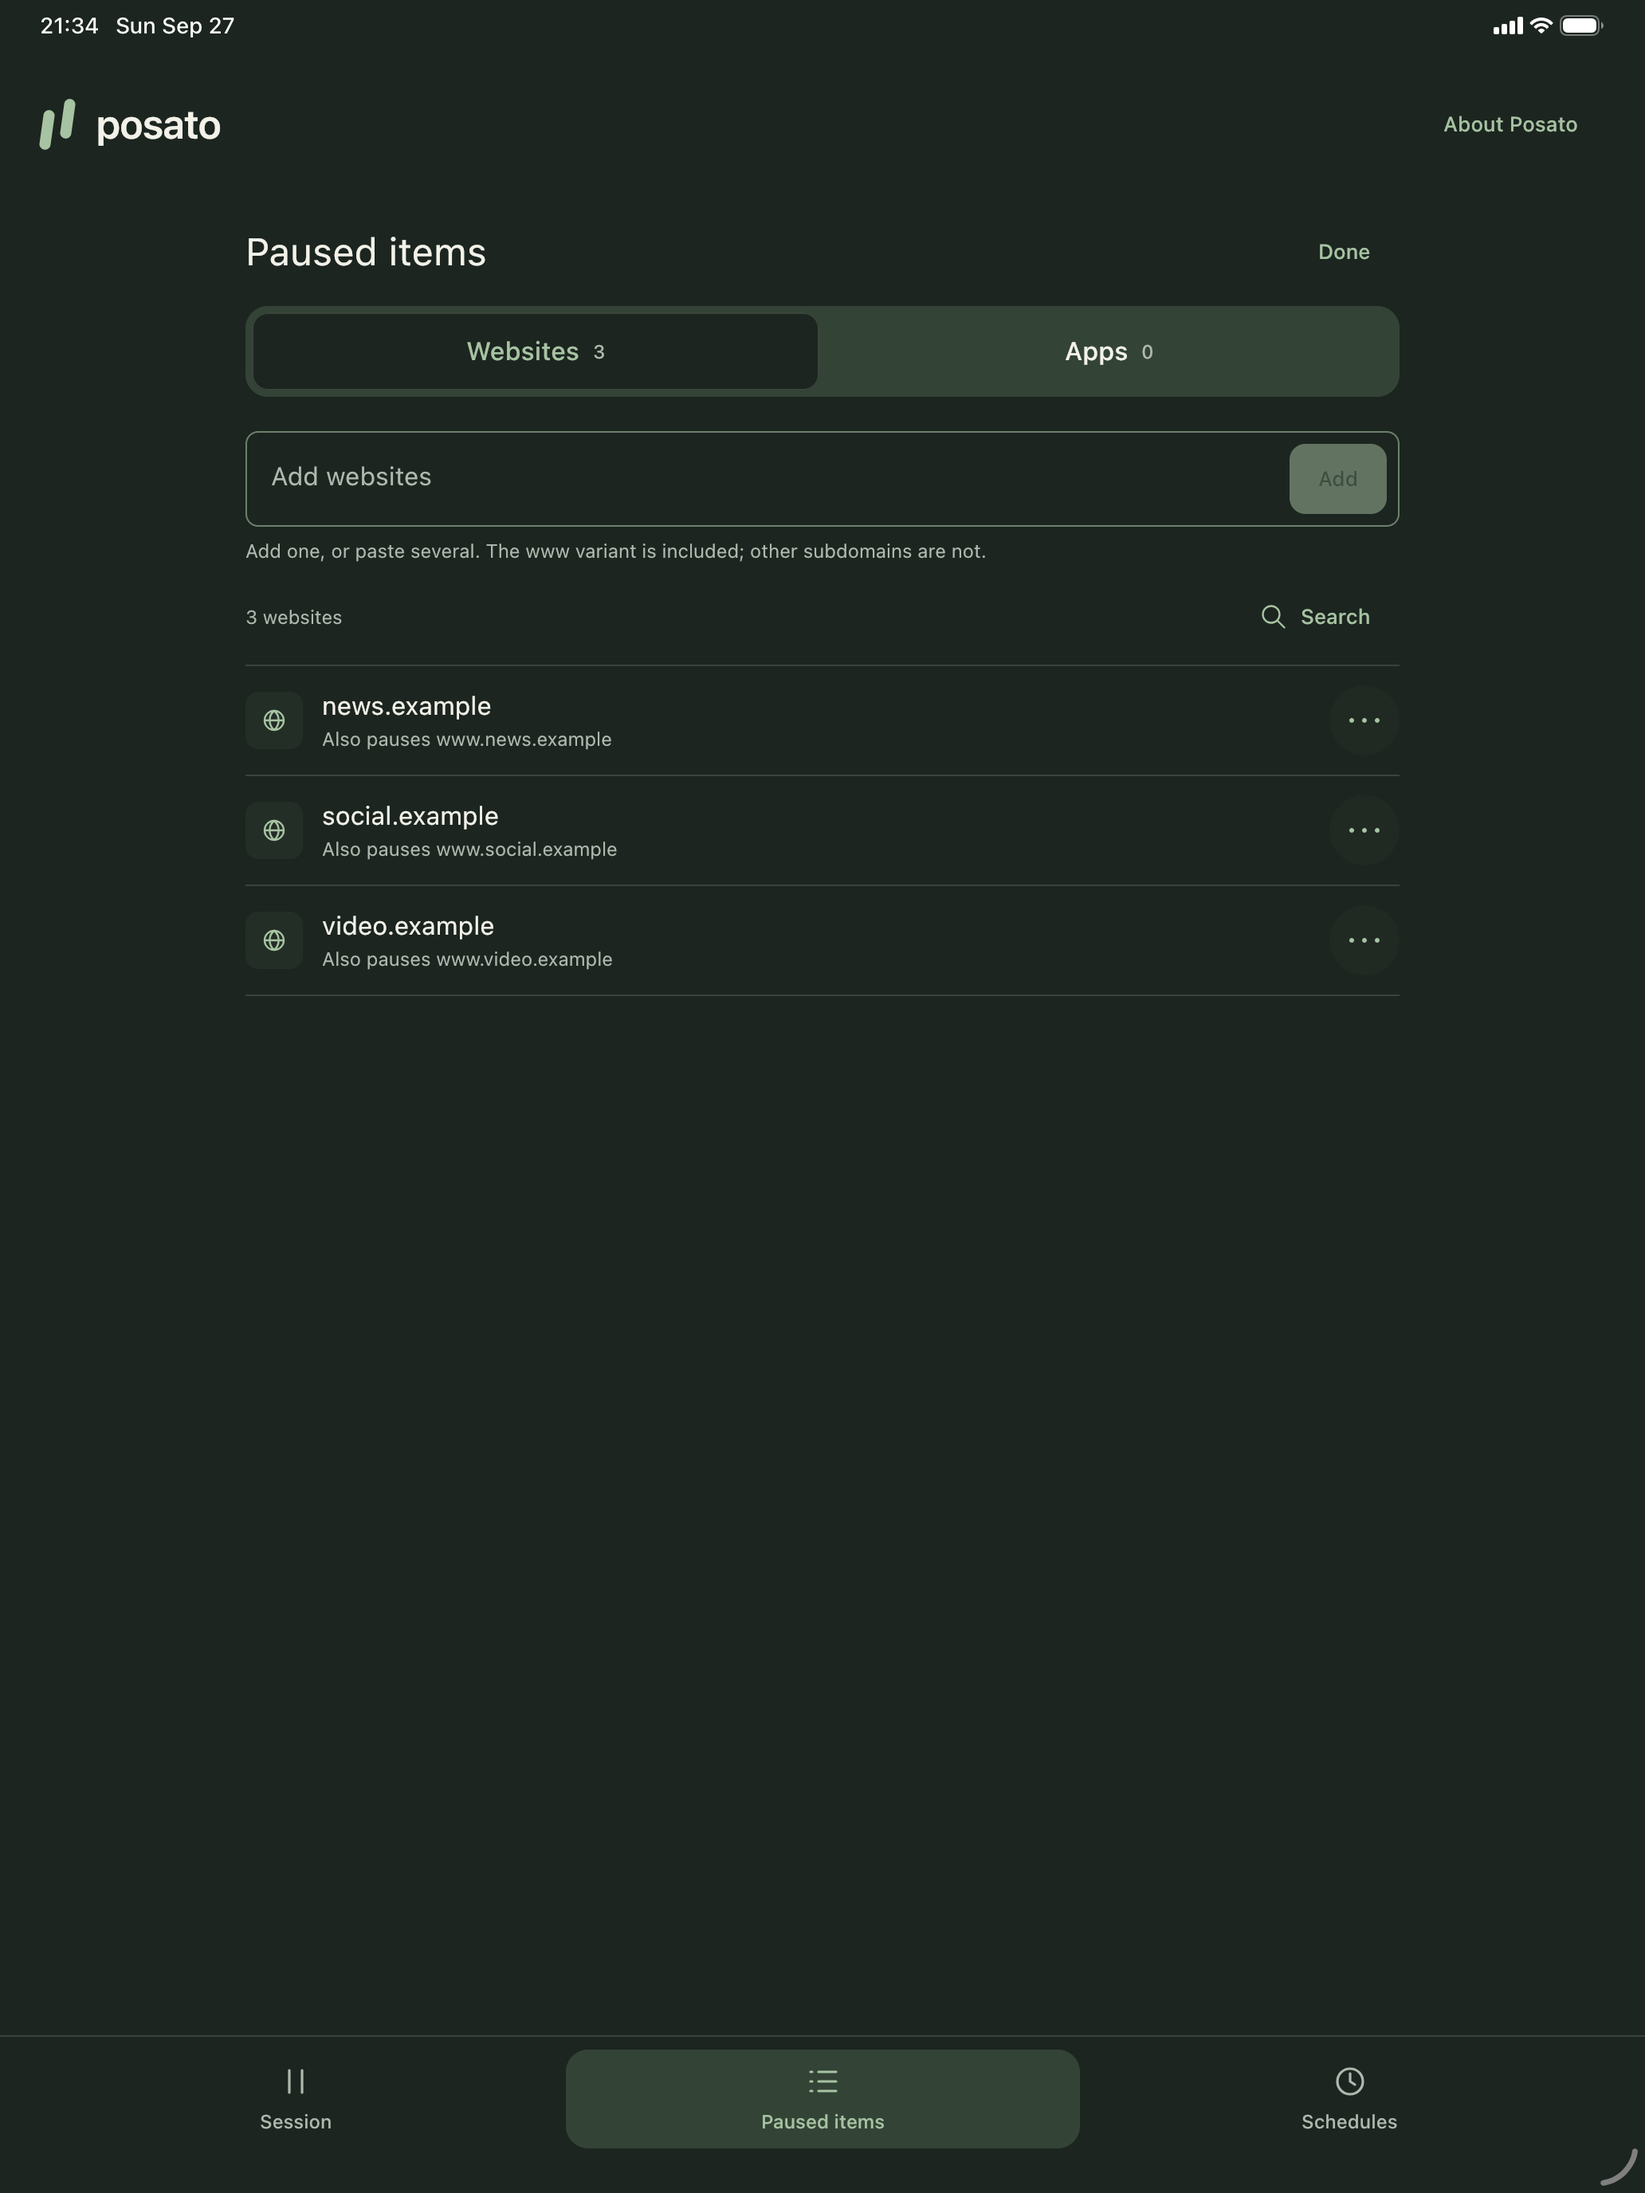
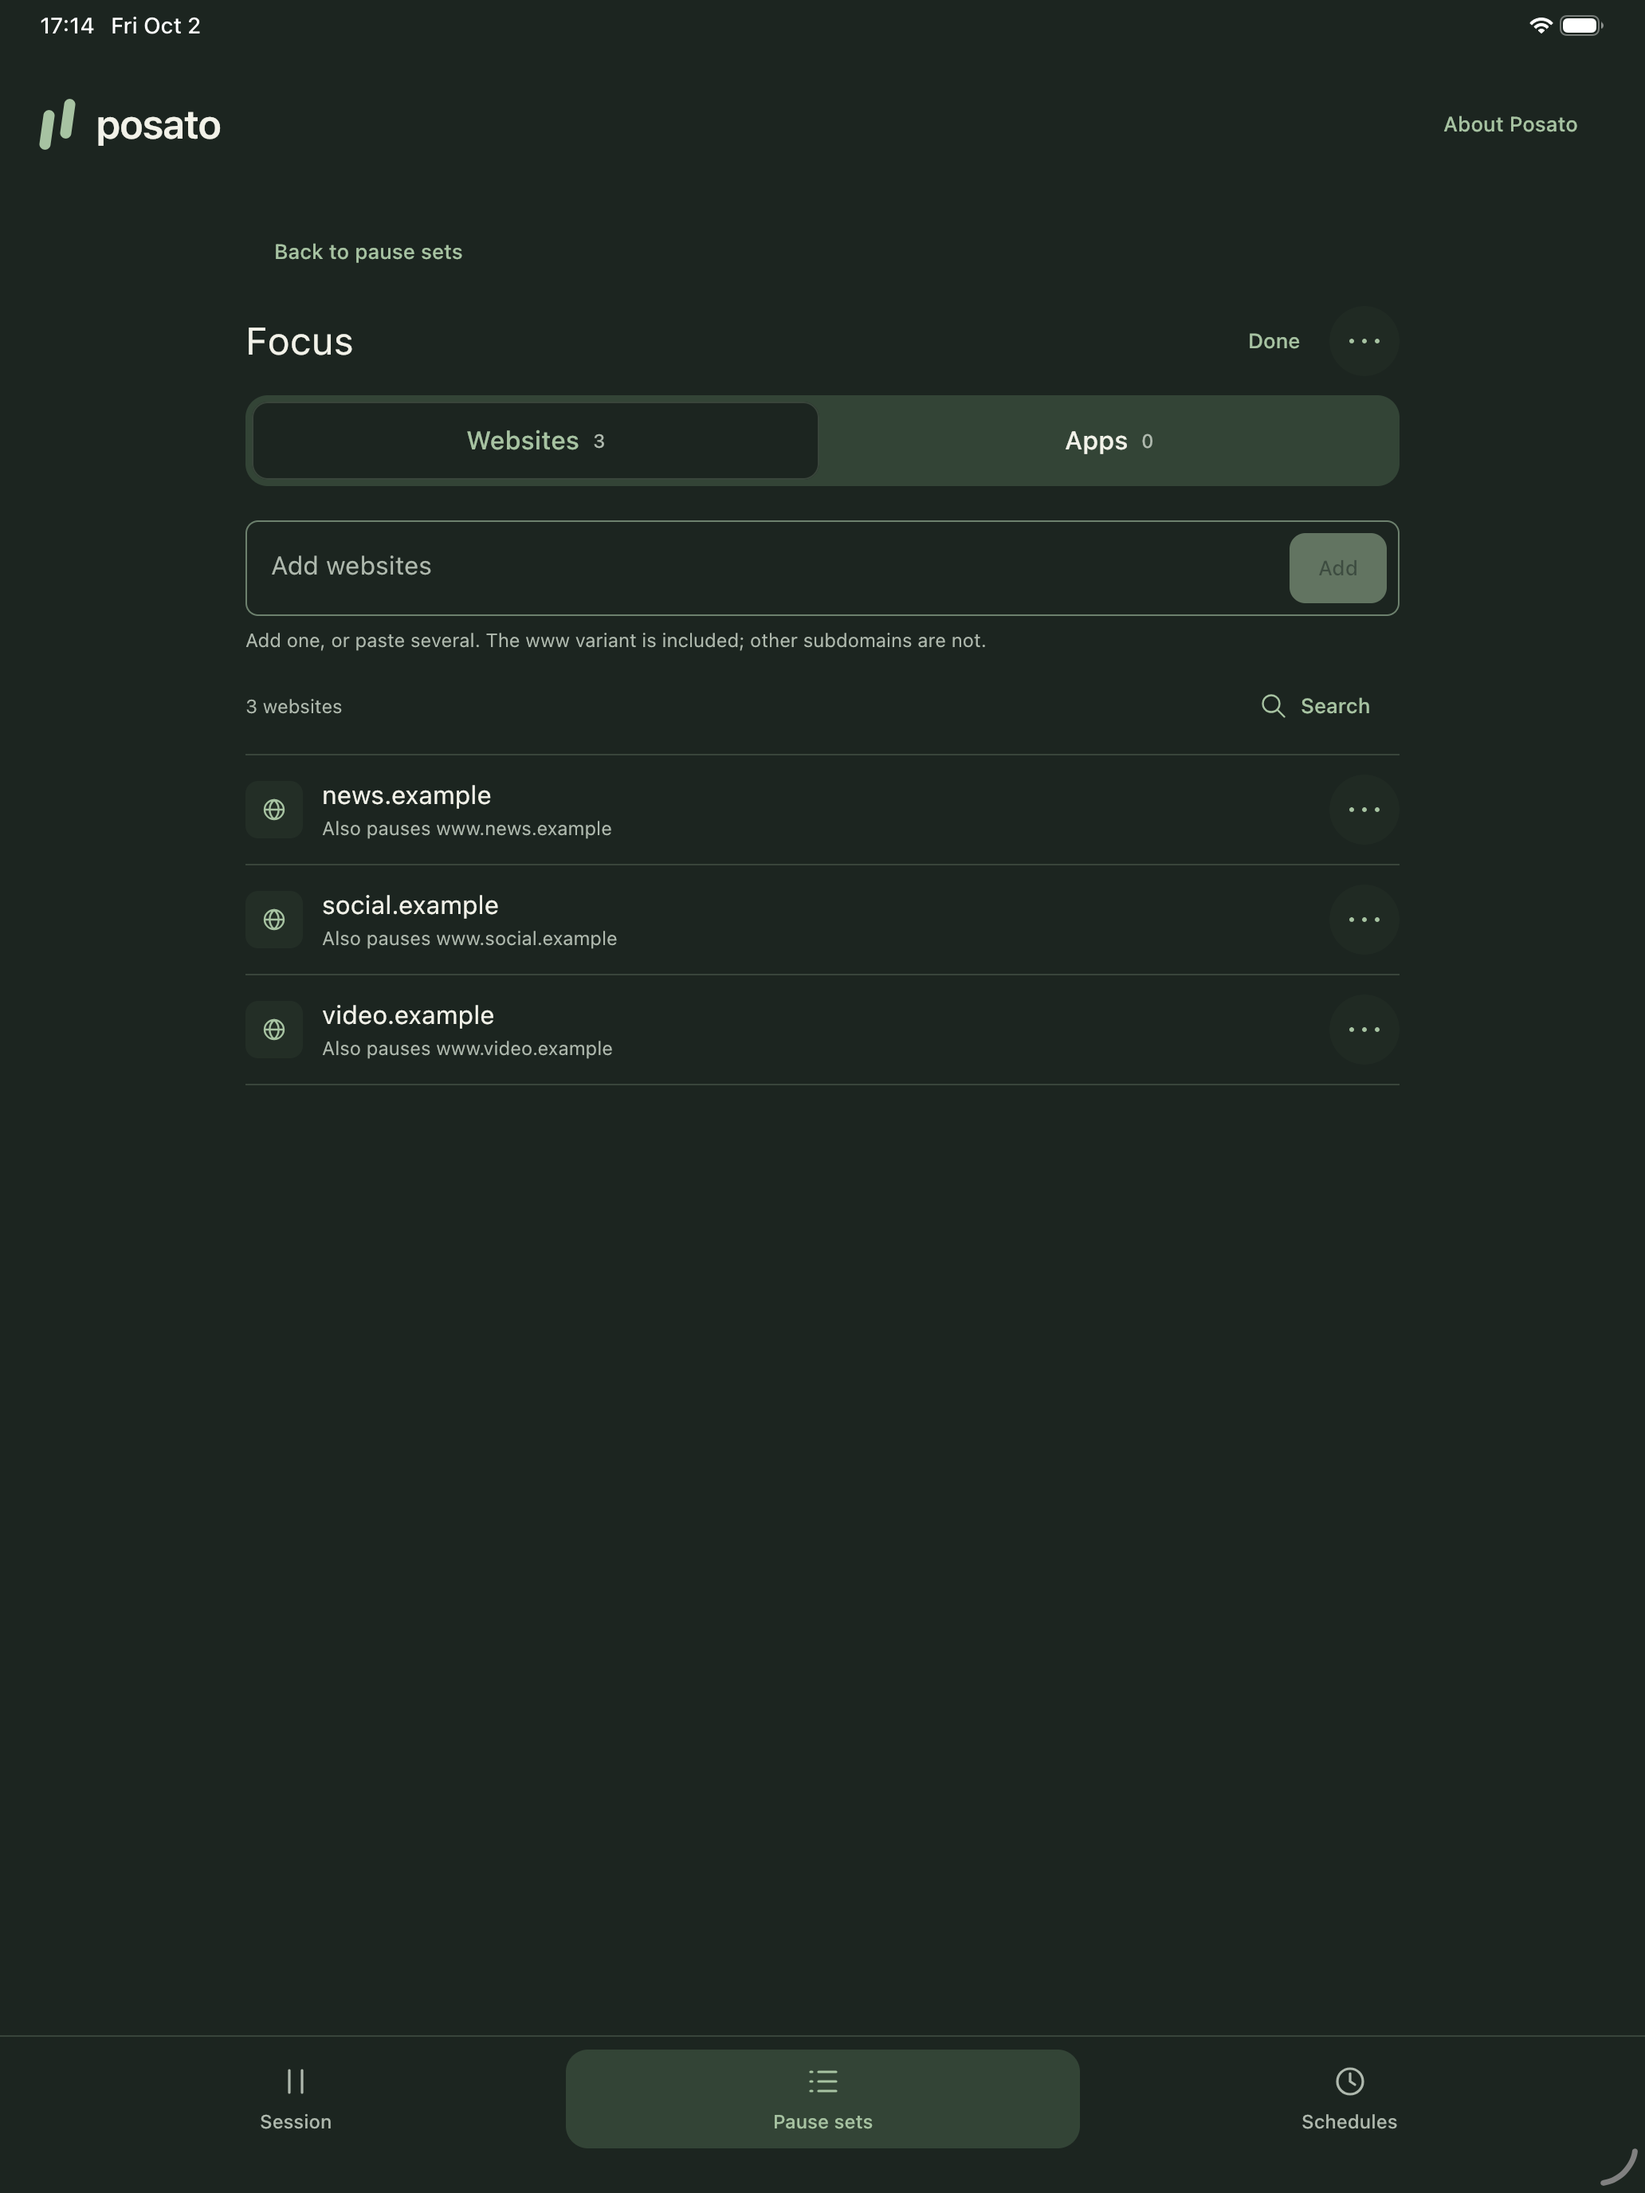
DOCS-004: Recapture the App Store screenshots for 1.3

diff --git a/docs/store/en-US/listing.md b/docs/store/en-US/listing.md
@@ -46,8 +46,10 @@ accepted About Posato entry. The maintainer accepted the three-screen set on
 recaptured the same three screens for 1.1.0 on 2026-09-25, because the
 website list now names the included `www` variant and About shows the new
 version. `DOCS-003` recaptured the set for 1.2.0 on 2026-09-27 and added
-Schedules as the third screen, which moved About Posato to fourth; it awaits
-the maintainer's acceptance.
+Schedules as the third screen, which moved About Posato to fourth. `DOCS-004`
+recaptured both sets for 1.3.0 on 2026-10-02: the first screen now shows the
+pause set Focus with its websites, and Session and Schedules show the set; it
+awaits the maintainer's acceptance.
 
 The captures show session setup, paused websites, and About Posato without private
 account, application, or device labels. Simulator captures must not imply that Screen
@@ -74,9 +76,9 @@ Simulator with `--udid <udid>`.
 1. Run `xcrun simctl ui <udid> appearance dark`.
 2. Install fresh with `launch -t sim --fresh`, then run
    `tools/posato-control/fixtures/scenarios/first-install-skip.json`.
-3. Add the synthetic websites `news.example`, `social.example`, and
-   `video.example`, then add a schedule named `Deep work` with the default
-   weekdays and hours.
+3. In **Pause sets**, rename the first set to `Focus` and add the synthetic
+   websites `news.example`, `social.example`, and `video.example` to it, then
+   add a schedule named `Deep work` with the default set, weekdays, and hours.
    The About screen shows the build's `MARKETING_VERSION`; capture from a build
    of the release version, even when `Version.xcconfig` is bumped only for the
    capture.
@@ -86,7 +88,7 @@ Simulator with `--udid <udid>`.
    selected. Before capturing, run
    `xcrun simctl status_bar <udid> override --time <HH:MM now> --batteryState discharging --batteryLevel 100 --wifiBars 3`,
    so the status bar matches the "Ends at" time.
-6. Capture About Posato, the paused items, and Schedules with the same
+6. Capture About Posato, the Focus set, and Schedules with the same
    status-bar time. The About screen hides the tab bar, so go Back before
    switching tabs.
 7. Capture each screen with `xcrun simctl io <udid> screenshot raw.png`. Then
